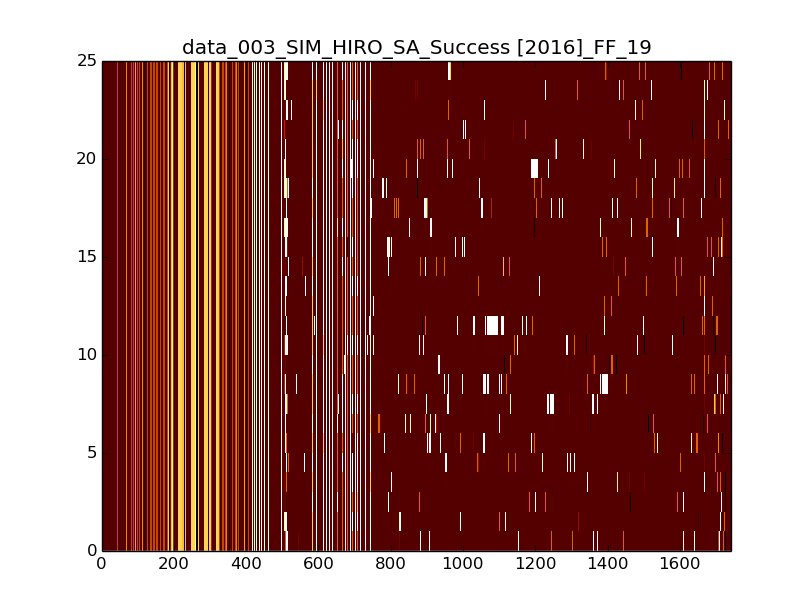
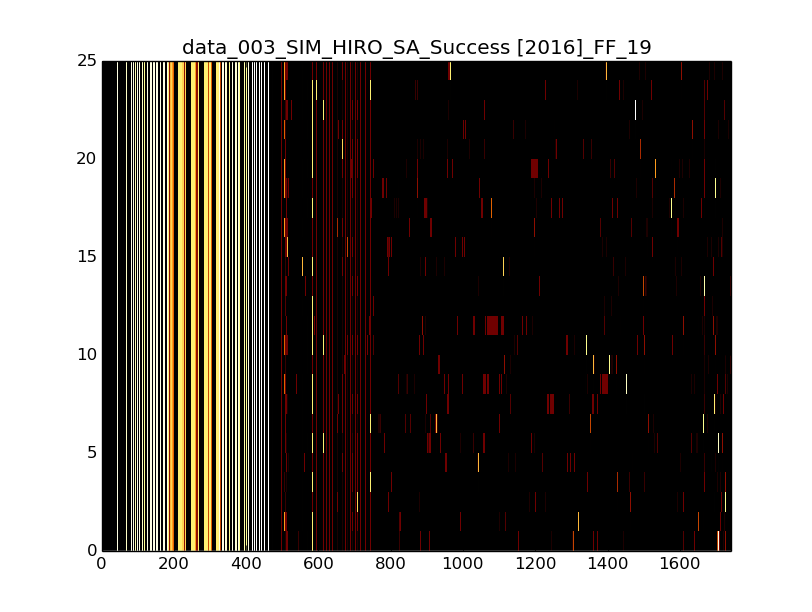
use NumPy to generate base vectors again, added two overlapping filters, NaNs due to SymPy evaluation disappeared.

diff --git a/clean/load_data.py b/clean/load_data.py
@@ -1,9 +1,11 @@
 import os
 import numpy
-import vector_sympy
-reload(vector_sympy)
-from vector_sympy import dumper, dcc_base
-
+#import vector_sympy
+#reload(vector_sympy)
+#from vector_sympy import dumper, dcc_base
+import basevectornew_numpy
+reload(basevectornew_numpy)
+from basevectornew_numpy import dumper, dcc_base, normalize
 
 
 # get the absolute path
@@ -54,13 +56,6 @@ def reader(filename):
                 x[:len(x)-2].split('\t'))
             ,lines))
     return data
-
-
-
-def normalize(v,axis=1): #vectors, shape=(n,3)
-    v_norm = numpy.linalg.norm( v, axis=axis )
-    nonzero = v_norm != 0 # zero may exists
-    v[nonzero] /= numpy.expand_dims(v_norm,2)[nonzero] 
 
 
 def basegen19One(t, n, b):
@@ -528,15 +523,14 @@ data = dumper.save_load(
 )
 
 
-
 def sampleviewone():
     global data
     a = data
-    a = a[a.keys()[0]]
+    a = a[a.keys()[1]]
     a = a[a.keys()[0]]
     a = a[a.keys()[15]]
-    print "FF code\n",a['FF_code_91'],"\n"
-    print "AFF code\n",a['AFF_code_91'],"\n"
+    print "FF code\n",''.join(map(str,a['FF_code_91'])),"\n"
+    print "AFF code\n",''.join(map(str,a['AFF_code_91'])),"\n"
     return a
 
 #sample91a = sampleviewone()

diff --git a/clean/visual.py b/clean/visual.py
@@ -18,6 +18,10 @@ import load_data
 reload(load_data)
 from load_data import data, dcc_base
 
+import basevectornew_numpy
+reload(basevectornew_numpy)
+from basevectornew_numpy import draw_all_basis
+
 #   hiro_cartpos_process_all_traj.py (show trajs)
 # - hiro_cartpos_code_visualize.py (colormaps)
 # - hiro_cartpos_git_updater.py (frames on path)
@@ -96,13 +100,12 @@ def drawframes(r,frames,ax):
 
 
 def showit():
+    draw_all_basis()
     for i in data:
         for j in data[i]:
-            codeshow(data,i,j,'FF_code',1)
-            codeshow(data,i,j,'AFF_code',1)
-            codeshow(data,i,j,'FF_code',2)
-            codeshow(data,i,j,'AFF_code',2)
-
+            for k in xrange(3):
+                codeshow(data,i,j,'FF_code',k)
+                codeshow(data,i,j,'AFF_code',k)
     #plt.show()
 
 showit()
